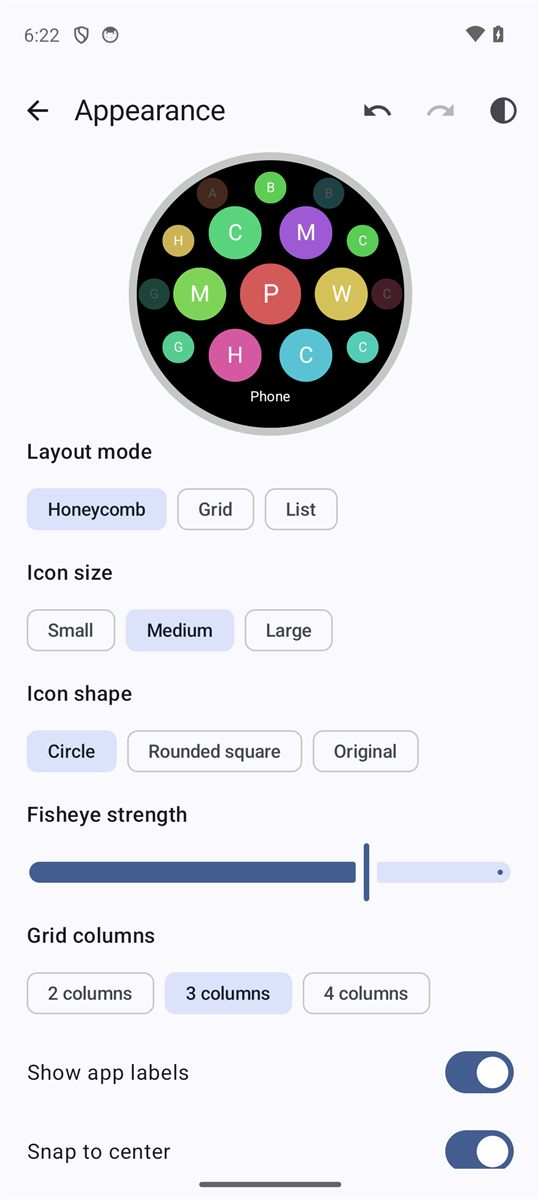
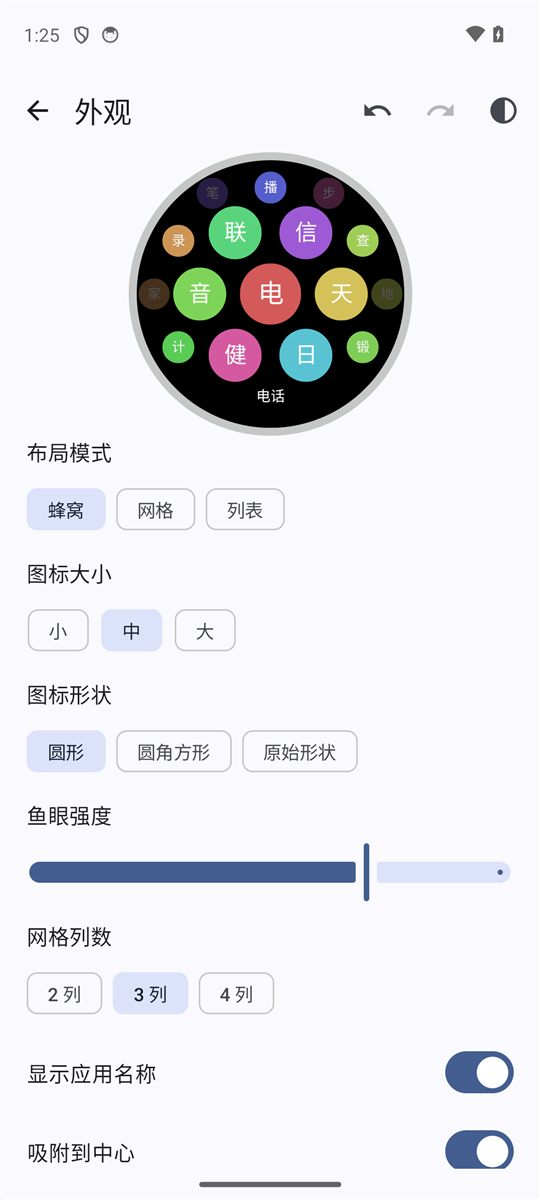
docs: chinese screenshots and localization notes
Retake all delivery screenshots with the app language set to Simplified Chinese, add a pinyin search screenshot, and record the verification results (shared 46, wear 63, mobile 63 tests, release APK sizes, phone cold start). Document the Chinese support behaviour: UI follows the system language, per-app language on Android 13+, no app language entry on Wear OS 6, pinyin full and initial search, demo data that follows the app language, and English fallback on Traditional Chinese systems.

diff --git a/docs/delivery.md b/docs/delivery.md
@@ -159,55 +159,68 @@ adb -s <手机序列号> install -r mobile\build\outputs\apk\debug\mobile-debug.
 | --- | --- | --- | --- |
 | `shared` | 46 | 0 | 不适用（纯 Kotlin 模块） |
 | `wear` | 63 | 0 | 0 error / 2 warning（`ObsoleteSdkInt`、`WearRecents`，均为历史遗留） |
-| `mobile` | 54 | 0 | 0 error / 0 warning（No issues found） |
+| `mobile` | 63 | 0 | 0 error / 0 warning（No issues found） |
 
-`assembleDebug` 与 `assembleRelease` 均成功，四个 APK 全部产出。
+`assembleDebug` 与 `assembleRelease` 均成功，四个 APK 全部产出。release 包体积：
+
+| 包 | 大小 |
+| --- | --- |
+| `wear\build\outputs\apk\release\wear-release.apk` | 2.74 MB（2807 KB） |
+| `mobile\build\outputs\apk\release\mobile-release.apk` | 2.21 MB（2265 KB） |
 
 ### Release 冷启动（`am start -W`，先 `am force-stop`，各 3 次）
 
 | 设备 | 第 1 次 | 第 2 次 | 第 3 次 |
 | --- | --- | --- | --- |
-| 手表 `emulator-5558` | 840 ms | 902 ms | 871 ms |
-| 手机 `emulator-5556` | 1672 ms | 1652 ms | 1723 ms |
+| 手机 `emulator-5556` | 2492 ms | 2381 ms | 2463 ms |
 
-手表刚装完包后的第一次冷启动会明显偏慢（实测 2121 ms，包含安装后的 profile 编译），随后稳定在 900 ms 上下；上表是稳定后的数据。
+手机刚装完包后的头几次冷启动更慢（实测 3092 / 3102 / 3160 ms，包含安装后的 profile 编译），稳定后为 2.4 s 上下。
+
+> 模拟器使用软件渲染（swiftshader），上述耗时与帧率数据只作功能验证参考，不代表真机性能。
 
 ### 实测走过的流程
 
-手表端（`wear` 的 release 包，并设为默认主屏）：
+手表端（`wear` 的 release 包，并设为默认主屏，应用语言为简体中文）：
 
-- 按 Home 直接回到启动器；蜂窝布局下点击**非中心**图标成功启动对应应用（实测启动系统通讯录）。
+- 按 Home 直接回到启动器；蜂窝布局下点击**非中心**图标成功启动对应应用。
 - 长按图标打开菜单，四个操作（常用 / 隐藏 / 信息 / 取消）都可点击，菜单完整落在圆屏安全区内。
 - 三种布局切换正常：蜂窝（鱼眼 + 焦点名 + 设置胶囊）、网格（正圆图标、均匀行距、完整标签）、列表（`TransformingLazyColumn` 缩放淡出）。
 - 表冠：`adb shell input rotaryencoder scroll --axis SCROLL,2` 让蜂窝焦点逐格移动、列表逐行滚动（详见“已知限制”关于注入命令的说明）。
 - 设置页：布局 / 图标大小 / 图标形状 / 排序 / 标签 / 吸附 / 触觉 / 减弱动画，以及同步状态区（状态、上次同步时间、最近结果）。
-- Tile：`DEBUG_SURFACE` + `DEBUG_SYSUI` 添加并显示“N2 常用应用”，2×2 居中布局，图标与名称都在圆屏内，点击直启，空状态显示“打开启动器”按钮。
+- Tile：`DEBUG_SURFACE` + `DEBUG_SYSUI` 添加并显示“N2 常用应用”，2×2 居中布局，图标与名称都在圆屏内，点击直启。
 
-手机端（`mobile` 的 release 包）：
+手机端（`mobile` 的 release 包，应用语言为简体中文）：
 
-- 首页：演示模式（40 个示例应用）、缩略图、连接与同步状态区、四个入口。
-- 编辑器：搜索、排序模式、星标、行尾溢出菜单（上移 / 下移 / 隐藏 / 换图标）、撤销 / 重做。
+- 首页：演示模式（40 个示例应用，名称随应用语言生成中文）、缩略图、连接与同步状态区、四个入口。
+- 编辑器：搜索（含拼音全拼与首字母）、排序模式、星标、行尾溢出菜单（上移 / 下移 / 隐藏 / 换图标）、撤销 / 重做。
 - 预览：与手表同尺寸的圆屏预览，蜂窝 / 网格 / 列表三种模式切换，拖动可探索且鱼眼跟随。
 - 外观：调整布局模式后预览实时更新；图标大小、形状、鱼眼、网格列数、标签、吸附、触觉、减弱动画均可改。
 - 图标：单个应用换图（裁剪）与 ZIP 图标包导入入口。
 - 同步诊断：节点能力、最近收发时间、缺失图标、最近一次 API 错误（按状态码显示本地化短语，如“手表未连接”），以及“重新请求目录”“重新发送”。
 - 深浅色主题切换正常，深色下所有页面可读。
 
-> 模拟器使用软件渲染（swiftshader），上述耗时与帧率数据只作功能验证参考，不代表真机性能。
+## 中文支持
+
+- **界面跟随系统语言**：两端都提供英文（`res/values/`）与简体中文（`res/values-zh-rCN/`）两套资源，系统语言为简体中文时自动显示中文，否则显示英文。
+- **单独设置手机应用的语言**：Android 13 及以上可在“设置 → 系统 → 语言 → 应用语言”里为本应用单独选择 English 或简体中文，不影响系统语言。
+- **手表跟随手表系统语言**：Wear OS 6 的系统设置里没有应用语言入口，手表应用只能跟随手表系统语言；简体中文系统下界面为中文。
+- **拼音搜索**：手机端的搜索框支持拼音全拼与首字母，例如 `dh` 或 `dianhua` 搜到“电话”、`lxr` 或 `lianxiren` 搜到“联系人”；多音字的所有读音都会建索引，任一读音都能命中。索引按当前目录构建，真实安装的中文应用（如微信）同样可以用 `wx` 搜到。
+- **演示数据跟随应用语言**：切换应用语言后，演示模式的示例应用名与图标会自动重新生成；用户在演示里调过的常用与排序会保留。
+- **繁体中文系统目前显示英文**：这是有意的决定——繁体资源的用词与简体差异较大，未做简体直转，避免出现用词不地道的中文。
 
 ## 截图
 
-以下图片均来自上表的实测（手表 `emulator-5558`、手机 `emulator-5556`）。
+以下图片均来自上表的实测（手表 `emulator-5554`、手机 `emulator-5556`，均为简体中文界面）。
 
 ### 手表端
 
 ![蜂窝布局：鱼眼缩放、中心应用与常用应用的高亮圈、底部焦点名与设置胶囊](images/watch-honeycomb.png)
 
-蜂窝布局：中心应用放大，常用应用带高亮圈，底部显示当前焦点名与设置入口。
+蜂窝布局：中心应用放大，常用应用带高亮圈，底部显示当前焦点名与“设置”入口。
 
 ![网格布局：三列正圆图标、完整标签、设置入口位于内容末尾](images/watch-grid.png)
 
-网格布局：图标保持正圆，标签完整显示（长名称按单词换行），设置入口是列表最后一项，不会遮挡内容。
+网格布局：图标保持正圆，标签完整显示，设置入口是列表最后一项，不会遮挡内容。
 
 ![列表布局：边缘条目缩小淡出](images/watch-list.png)
 
@@ -223,7 +236,7 @@ adb -s <手机序列号> install -r mobile\build\outputs\apk\debug\mobile-debug.
 
 ![设置页同步状态：状态、上次同步时间、最近结果](images/watch-settings-sync.png)
 
-设置页底部的同步状态区：连接状态、按本地时间格式化的上次同步时间、最近一次同步结果。
+设置页底部的同步状态区：同步状态、按本地时间格式化的上次同步时间、最近一次同步结果。
 
 ![常用应用 Tile：2×2 居中布局](images/watch-tile.png)
 
@@ -233,11 +246,15 @@ adb -s <手机序列号> install -r mobile\build\outputs\apk\debug\mobile-debug.
 
 ![首页：预览缩略图、连接状态与四个入口](images/phone-home.jpg)
 
-首页：预览缩略图、连接与同步状态区，以及布局编辑、外观、图标、帮助四个入口。
+首页：演示模式下的中文示例应用、预览缩略图、连接与同步状态区，以及布局编辑、外观、图标、帮助四个入口。
 
 ![编辑器：搜索、排序模式、星标与行尾溢出菜单](images/phone-editor.jpg)
 
 布局编辑器：搜索、排序模式、常用星标、行尾溢出菜单（上移 / 下移 / 隐藏 / 换图标）与撤销 / 重做。
+
+![拼音搜索：输入 lxr 只匹配到“联系人”](images/phone-search-pinyin.jpg)
+
+拼音搜索：搜索框输入首字母 `lxr`，结果只剩“联系人”，无需切换到中文输入法。
 
 ![全屏预览：与手表同分辨率的圆屏预览](images/phone-preview.jpg)
 

diff --git a/README.md b/README.md
@@ -12,6 +12,7 @@
 - **冲突处理是显式的**：按修订号最大者胜（LWW），手表上有更新修改时手机不会悄悄覆盖，而是让你选择“载入手表配置”或“用我的修改覆盖”。
 - **图标按内容寻址**：`IconId` 是图标字节的 SHA-256 摘要前 24 位十六进制；同一个图标只存一份、只传一次，重复导入同一图标包不会累积文件。
 - **导入有安全边界**：ZIP 图标包限制 500 个条目、单文件 2 MB、总量 50 MB，非图片内容与不安全路径一律拒绝；应用前先给出匹配预览，确认后才落盘，且整个过程可撤销。
+- **中文用户优先**：两端都有完整的中英文界面，跟随系统语言；手机端搜索支持拼音全拼与首字母（`dh`/`dianhua` 搜到电话、`lxr`/`lianxiren` 搜到联系人，多音字的所有读音都会建索引），演示数据也跟随应用语言生成中文示例应用。
 - **无障碍可用**：编辑器每行提供自定义无障碍操作（上移、下移、隐藏、换图标），触控目标不小于 48dp；手表蜂窝用最近中心命中，点击区域不重叠，且每个可见图标都有独立的语义节点供 TalkBack 逐个访问。
 
 ## 功能清单
@@ -31,11 +32,12 @@
 ### 手机端（`mobile/`）
 
 - 首页：预览缩略图（点击进入全屏预览）、紧凑的连接与同步状态区、四个入口（布局编辑、外观、图标、帮助）。
-- 布局编辑器：搜索、排序模式、常用星标、拖拽排序、行尾溢出菜单（上移/下移/隐藏/换图标）、隐藏应用列表、撤销/重做、自动保存。
+- 布局编辑器：搜索（支持中文名、拼音全拼与首字母，多音字全部读音都会建索引）、排序模式、常用星标、拖拽排序、行尾溢出菜单（上移/下移/隐藏/换图标）、隐藏应用列表、撤销/重做、自动保存。
 - 预览：与手表同尺寸的圆屏预览，可拖动探索，支持蜂窝/网格/列表三种模式与“居中”复位。
 - 外观：布局模式、图标大小、图标形状、鱼眼强度、网格列数、标签开关、吸附、触觉、减弱动画。
 - 图标：从相册选图并裁剪（输出 192 px PNG，圆形或方形），或导入 ZIP 图标包（支持包名图片与 `appfilter.xml` 组件映射），导入结果先预览再应用，可恢复默认。
 - 同步与诊断：同步卡片显示阶段与冲突处理；同步诊断页提供“重新请求目录”与“重新发送”。
+- 界面语言：跟随系统语言显示中文或英文；Android 13 及以上可在“设置 → 系统 → 语言 → 应用语言”里单独设置本应用的语言。演示模式的示例应用名与图标会跟随应用语言重新生成。
 
 ### 同步（`shared/protocol` + 两端 `sync/`）
 
@@ -53,6 +55,14 @@
 - Android SDK：`compileSdk = 37`、`targetSdk = 36`；手表端 `minSdk = 30`，手机端 `minSdk = 26`。
 - Gradle 由 wrapper 提供（Gradle 9.8.1），无需单独安装。
 - 如果 Gradle 提示找不到 SDK，在仓库根目录新建 `local.properties`，写入 `sdk.dir=<你的 SDK 路径>`（该文件已被 git 忽略）。
+
+### 第三方依赖
+
+除 AndroidX / Compose / Wear 官方库外，手机端只引入了一个第三方库：
+
+- `com.belerweb:pinyin4j:2.5.1`：把中文应用名转成拼音，供搜索框的全拼与首字母匹配使用。它的词典在首次调用时加载，因此调用点必须在 IO / Default 线程（见 `mobile/.../search/PinyinRomanizer.kt`）。
+
+版本统一声明在 `gradle/libs.versions.toml`。
 
 ### 构建命令
 
